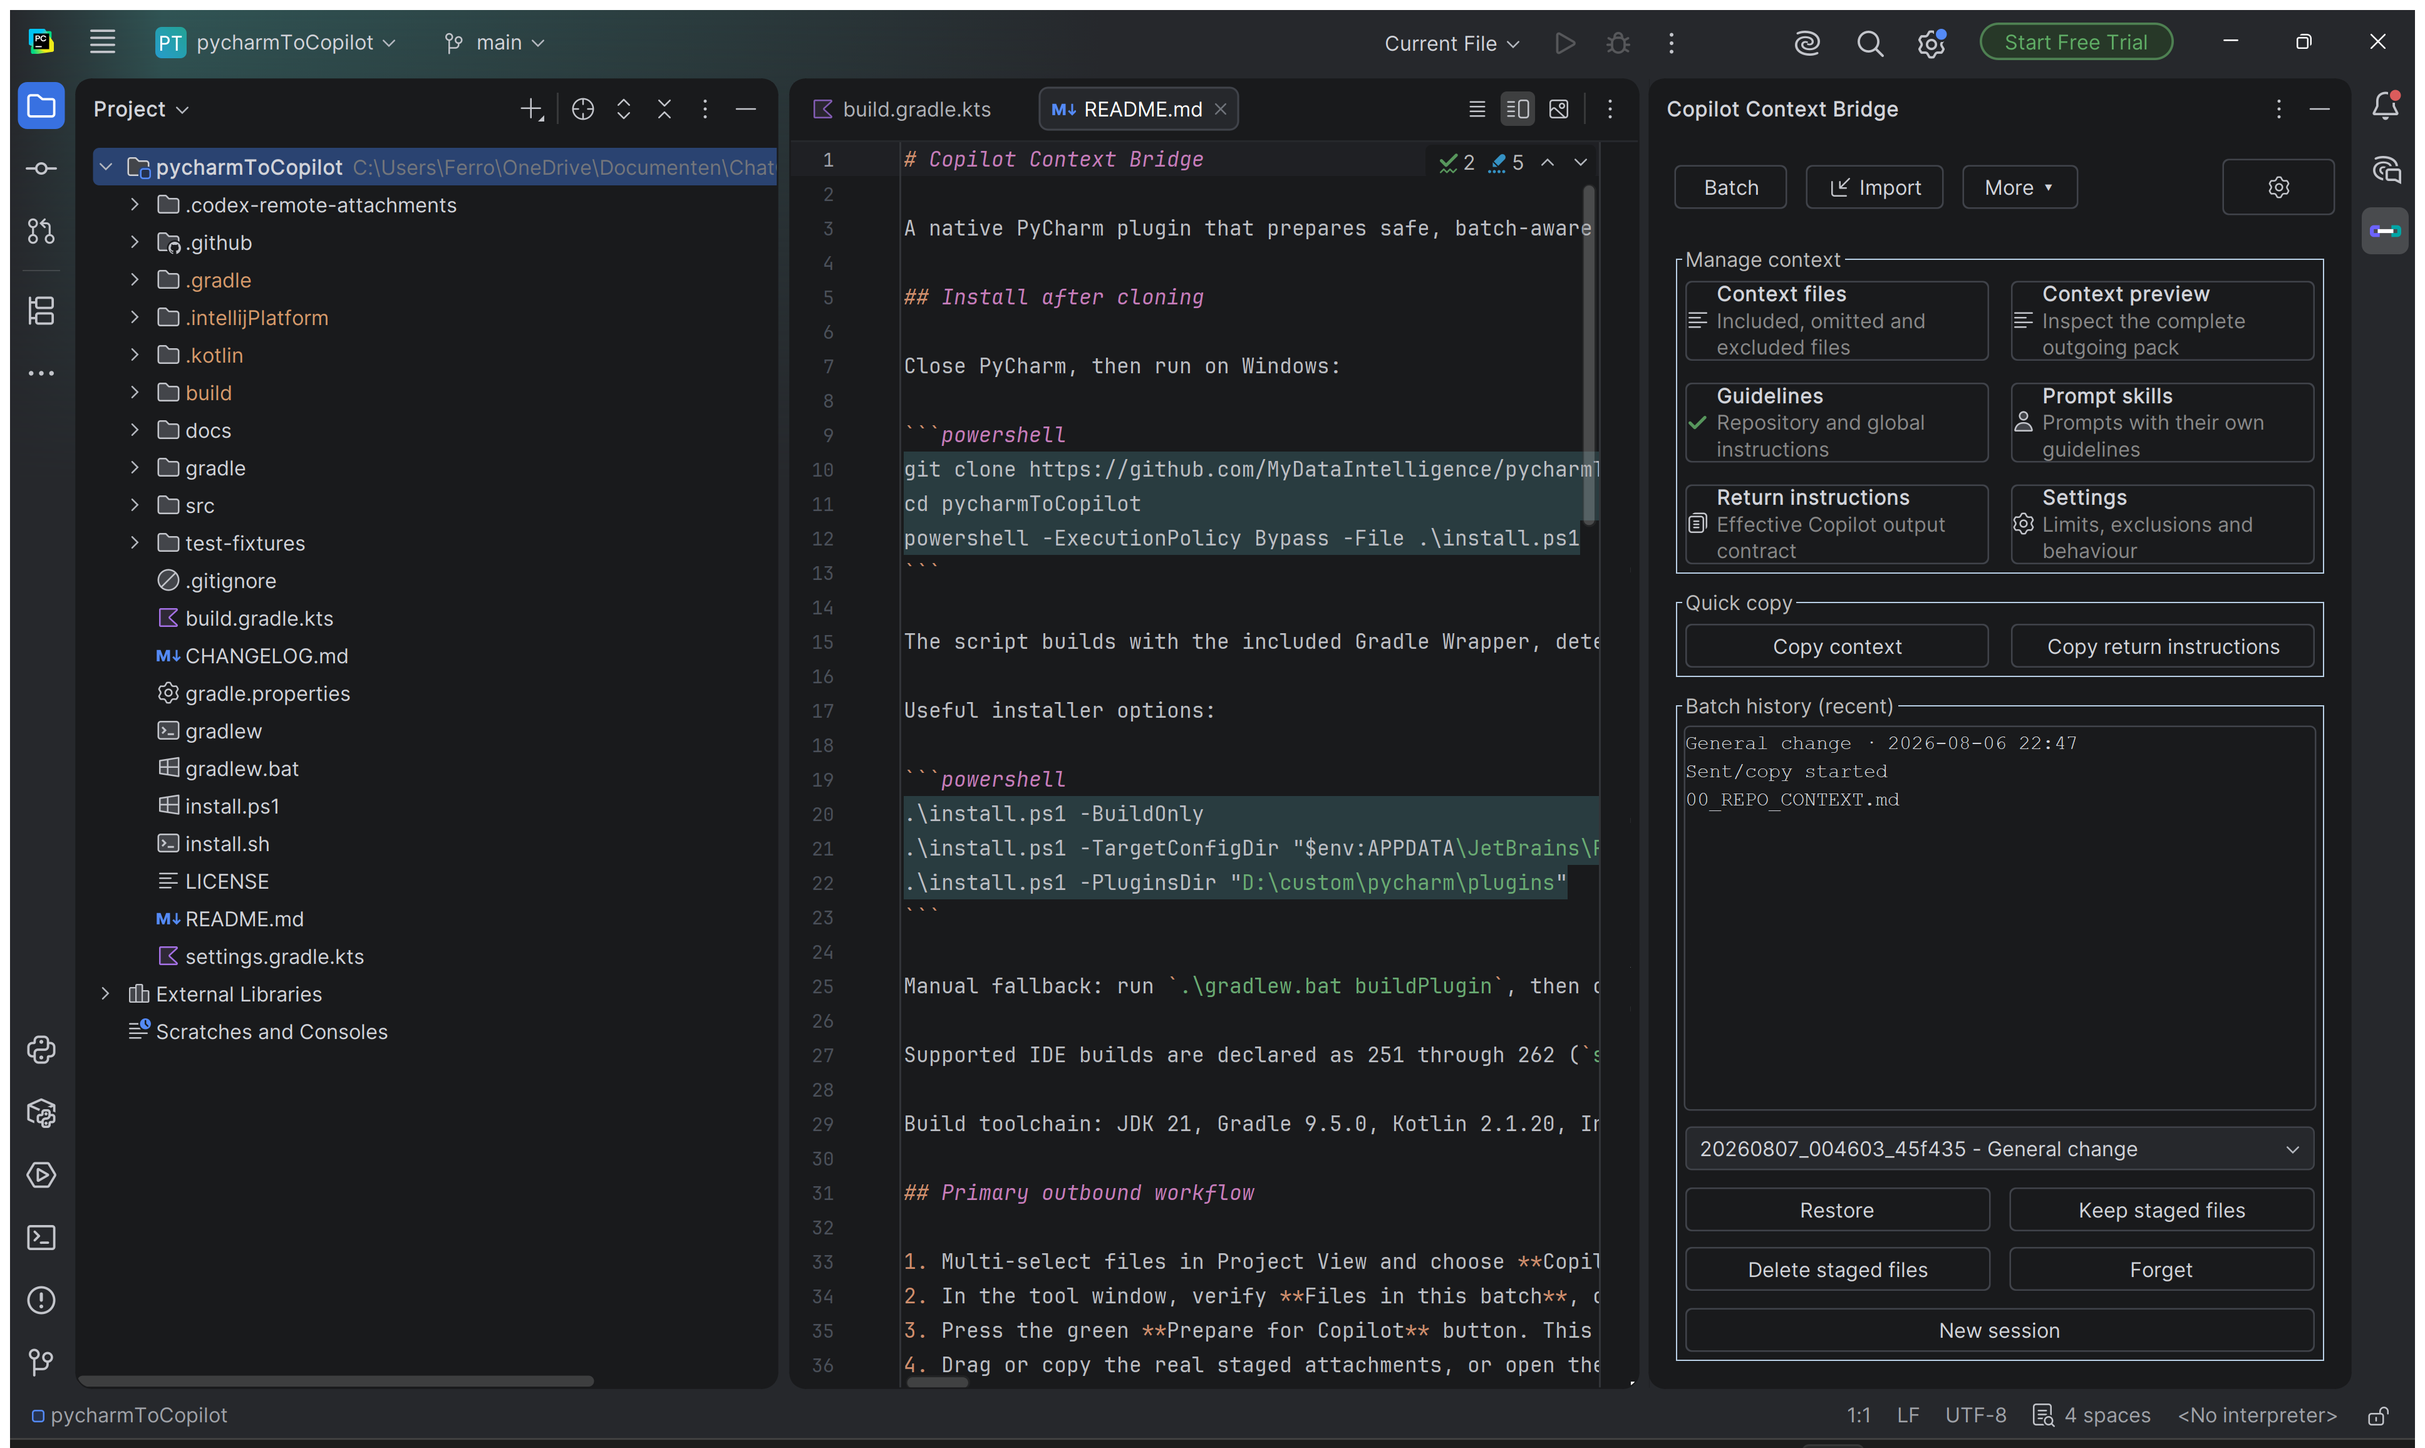
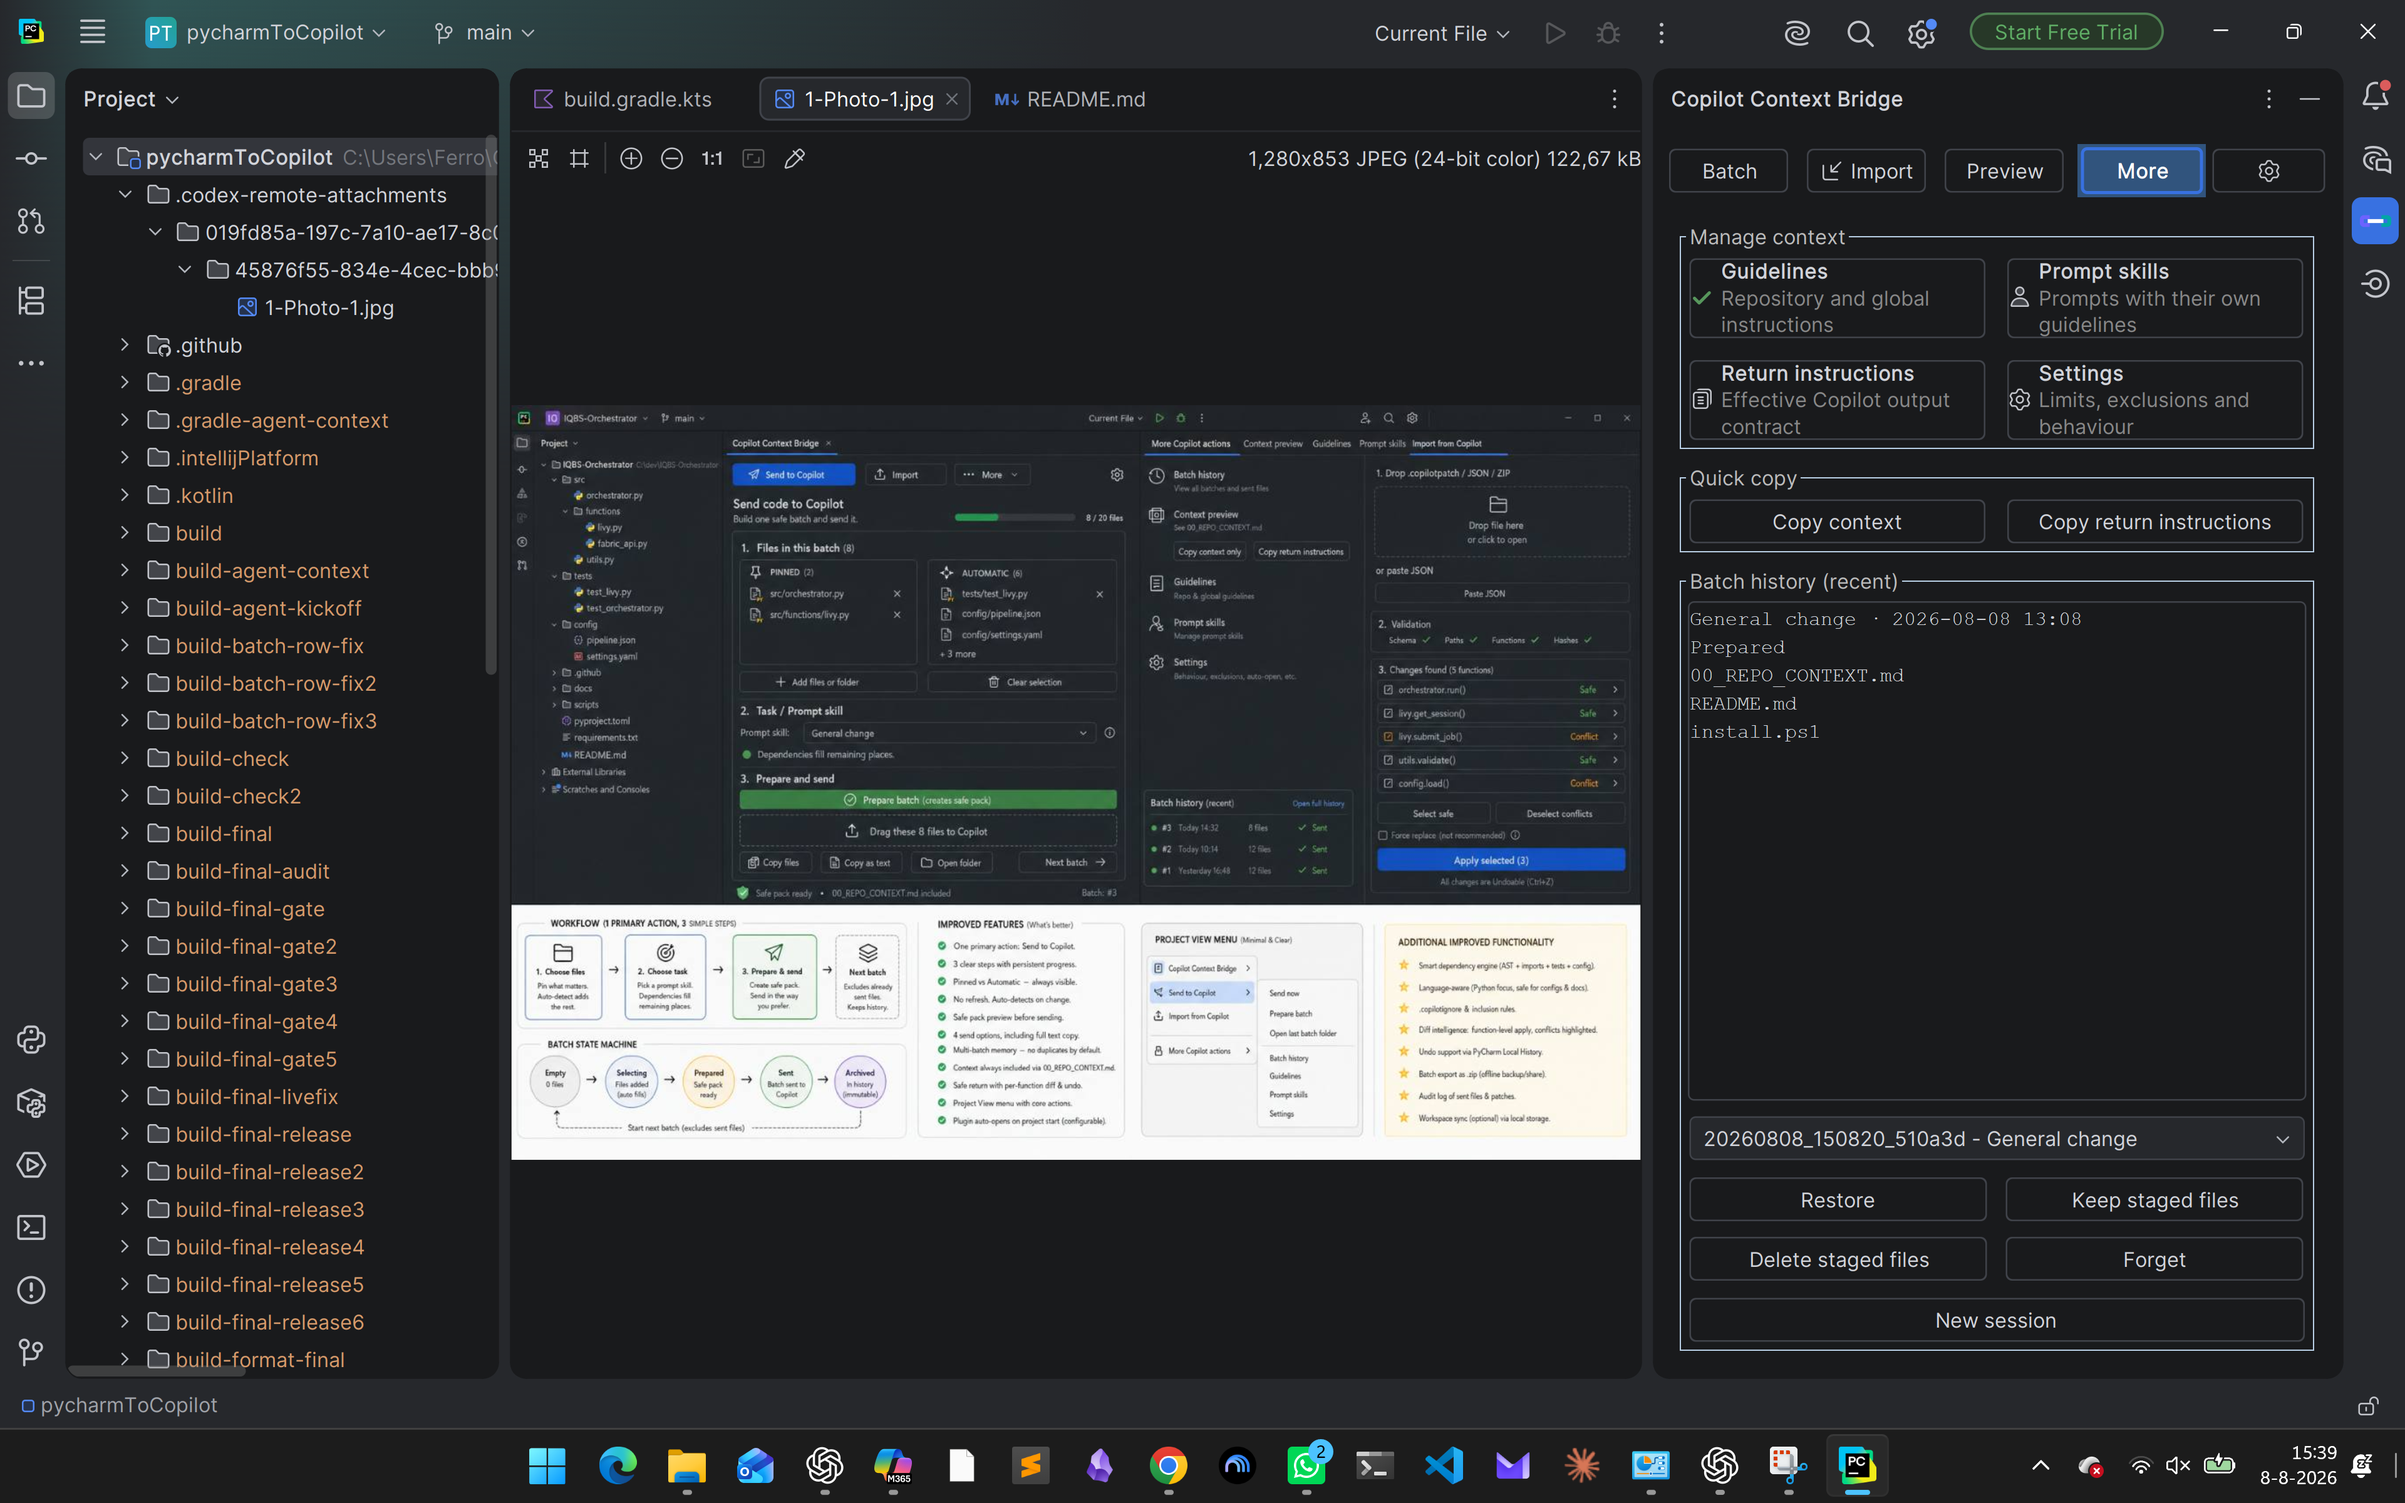
Finalize live UI evidence and settings labels

diff --git a/src/main/kotlin/nl/ferron/copilotcontextbridge/settings/AppSettingsConfigurable.kt b/src/main/kotlin/nl/ferron/copilotcontextbridge/settings/AppSettingsConfigurable.kt
@@ -26,7 +26,7 @@ class AppSettingsConfigurable : Configurable {
     private val excludedExtensions = JBTextArea(12, 70)
     private val retention = JSpinner(SpinnerNumberModel(7, 1, 365, 1))
 
-    override fun getDisplayName() = "Copilot Context Bridge"
+    override fun getDisplayName() = "Copilot Context Bridge (Application)"
 
     override fun createComponent(): JComponent =
         JBTabbedPane().apply {

diff --git a/src/main/kotlin/nl/ferron/copilotcontextbridge/settings/ProjectSettingsConfigurable.kt b/src/main/kotlin/nl/ferron/copilotcontextbridge/settings/ProjectSettingsConfigurable.kt
@@ -46,7 +46,7 @@ class ProjectSettingsConfigurable(
     private val scores = JBTextArea(16, 60)
     private val postApplyCommand = JBTextField()
 
-    override fun getDisplayName() = "Copilot Context Bridge"
+    override fun getDisplayName() = "Copilot Context Bridge (Project)"
 
     override fun createComponent(): JComponent =
         JBTabbedPane().apply {

diff --git a/docs/live-pycharm-test-matrix.md b/docs/live-pycharm-test-matrix.md
@@ -19,16 +19,16 @@ Rules:
 | L002 | Repeat `install.ps1` update | Previous plugin is backed up outside plugin directory; updated plugin loads once | PENDING | `docs/screenshots/live-audit/L002-repeat-install-update.png` |
 | L003 | Manual ZIP install fallback | Built ZIP is accepted by Install Plugin from Disk | PENDING | `docs/screenshots/live-audit/L003-manual-zip-install.png` |
 | L004 | Open fixture project | Tool window opens on compact three-step Batch page and fits at normal width | PASS | `docs/screenshots/live-audit/L174-reinstalled-final.png` |
-| L005 | Resize tool window narrow/wide | Primary controls remain readable; scrolling appears instead of clipping | PENDING | `docs/screenshots/live-audit/L005-responsive-layout.png` |
+| L005 | Resize tool window narrow/wide | Primary controls remain readable; scrolling appears instead of clipping | PASS | `docs/screenshots/live-audit/L005-responsive-layout.png` |
 | L006 | Switch Batch → Import → Preview → More | Navigation remains stable and no controls leak between pages | PASS | `docs/screenshots/live-audit/L175-import-final.png`, `L151-preview-tab.png`, `L152-more-tab.png`, `L174-reinstalled-final.png` |
-| L007 | Open every More destination repeatedly | More action/card positions do not jump from bottom to top or reorder | PENDING | `docs/screenshots/live-audit/L007-more-stable-button-order.png` |
+| L007 | Open every More destination repeatedly | More action/card positions do not jump from bottom to top or reorder | PASS | `docs/screenshots/live-audit/L007-more-stable-button-order.png` |
 | L008 | Reopen project | Configured auto-open behavior is respected without duplicate tool windows | PENDING | `docs/screenshots/live-audit/L008-project-reopen.png` |
 
 ## Project View selection
 
 | ID | Scenario | Expected result | Status | Full-window screenshot |
 |---|---|---|---|---|
-| L009 | Right-click one file | Bridge submenu shows Add, Add with Dependencies, Add with Prompt Skill and Open | PENDING | `docs/screenshots/live-audit/L009-project-menu-one-file.png` |
+| L009 | Right-click one file | Bridge submenu shows Add, Add with Dependencies, Add with Prompt Skill and Open | PASS | `docs/screenshots/live-audit/L009-project-menu-one-file.png` |
 | L010 | Ctrl multi-select two files | One Add action pins both selected paths | PENDING | `docs/screenshots/live-audit/L010-multiselect-two-files.png` |
 | L011 | Shift multi-select a range | Every selected file is pinned once in stable path order | PENDING | `docs/screenshots/live-audit/L011-multiselect-range.png` |
 | L012 | Add from different folders successively | Earlier and later pins remain together | PENDING | `docs/screenshots/live-audit/L012-cross-folder-selection.png` |
@@ -118,7 +118,7 @@ Rules:
 | L076 | Global guideline edit/reset/import/export | Each operation persists and round-trips | PENDING | `docs/screenshots/live-audit/L076-global-guidelines.png` |
 | L077 | Repository guideline explicit save | No repository write occurs before Save; requested file is written after Save | PENDING | `docs/screenshots/live-audit/L077-repository-guideline-save.png` |
 | L078 | Create modular guideline structure | Confirmation creates only selected safe structure | PENDING | `docs/screenshots/live-audit/L078-create-guideline-structure.png` |
-| L079 | Open Return Instructions editor | Mode default, project override, prompt addition and effective preview are distinct | PENDING | `docs/screenshots/live-audit/L079-return-instructions-editor.png` |
+| L079 | Open Return Instructions editor | Mode default, project override, prompt addition and effective preview are distinct | PASS | `docs/screenshots/live-audit/L079-return-instructions-editor.png` |
 | L080 | Edit project override/prompt addition | Effective instructions update and persist | PENDING | `docs/screenshots/live-audit/L080-return-instructions-inheritance.png` |
 | L081 | Remove required return clause | Validation warning identifies missing identity/safety requirement | PENDING | `docs/screenshots/live-audit/L081-return-instructions-validation.png` |
 | L082 | Reset Return Instructions | Selected mode returns to safe default while other modes remain intact | PENDING | `docs/screenshots/live-audit/L082-return-instructions-reset.png` |
@@ -128,16 +128,16 @@ Rules:
 
 | ID | Scenario | Expected result | Status | Full-window screenshot |
 |---|---|---|---|---|
-| L084 | Next batch | Prepared pack archives; active selection resets for next batch | PENDING | `docs/screenshots/live-audit/L084-next-batch.png` |
+| L084 | Next batch | Prepared pack archives; active selection resets for next batch | PASS | `docs/screenshots/live-audit/L084-next-batch.png` |
 | L085 | Restore historical batch | Historical repository paths become pinned again | PENDING | `docs/screenshots/live-audit/L085-restore-batch.png` |
 | L086 | Forget historical batch | Only selected history entry is removed after confirmation | PENDING | `docs/screenshots/live-audit/L086-forget-batch.png` |
 | L087 | New conversation session | Session ID changes; new batch starts at one; history remains inspectable | PASS | `docs/screenshots/live-audit/L168-new-session-confirmed.png`, `L169-session-selector.png` |
 | L088 | Current-session prior batches | Generated prompt lists current-session batches and possible future 20-file batches | PENDING | `docs/screenshots/live-audit/L088-multibatch-protocol.png` |
 | L089 | More → Batch history/session selector | Existing session with five batches can be selected and restored | PASS | `docs/screenshots/live-audit/L169-session-selector.png`, `L171-session-switched-old.png` |
-| L090 | More → Context preview and back | Preview opens, Back/Batch returns without layout jump | PENDING | `docs/screenshots/live-audit/L090-more-context-navigation.png` |
-| L091 | More → Guidelines and back | Correct page opens; Import controls never appear there | PENDING | `docs/screenshots/live-audit/L091-more-guidelines-navigation.png` |
-| L092 | More → Prompt Library and back | Editor opens with stable button placement and scroll state | PENDING | `docs/screenshots/live-audit/L092-more-prompt-navigation.png` |
-| L093 | More → Settings | Correct plugin settings page opens | PENDING | `docs/screenshots/live-audit/L093-more-settings.png` |
+| L090 | More → Context preview and back | Preview opens, Back/Batch returns without layout jump in the wide split layout | PASS | `docs/screenshots/live-audit/L141-context-preview-retained.png`, `L090-more-context-navigation.png` |
+| L091 | More → Guidelines and back | Correct page opens; Import controls never appear there | PASS | `docs/screenshots/live-audit/L091-more-guidelines-navigation.png` |
+| L092 | More → Prompt Library and back | Editor opens with stable button placement and scroll state | PASS | `docs/screenshots/live-audit/L092-more-prompt-navigation.png` |
+| L093 | More → Settings | Correct plugin settings page opens | PASS | `docs/screenshots/live-audit/L093-more-settings.png` |
 | L094 | More quick actions repeatedly | Quick copy/history controls keep fixed vertical order and alignment | PENDING | `docs/screenshots/live-audit/L094-more-quick-actions-stable.png` |
 
 ## Patch ingestion and validation
@@ -210,6 +210,6 @@ Rules:
 | L138 | Prepare dropdown batch | Packing summary reports physical attachments, represented files and category bundle counts | PASS | `docs/screenshots/live-audit/L148-after-prepare-correct-coordinates.png` |
 | L139 | Inspect prompt below prepared drag zone | Rendered prompt includes context index, skill, session, batch, original paths, Return Instructions and future-batch wait text | PASS | `docs/screenshots/live-audit/L148-after-prepare-correct-coordinates.png` |
 | L140 | Copy editable kickoff prompt | Clipboard exactly matches the visible rendered prompt and no file contents are mixed in | PASS | `docs/screenshots/live-audit/L179-copy-prompt-clicked.png` |
-| L141 | Open More → Context preview after Batch redesign | Complete generated context, source map and Included/Omitted/Excluded views remain available | PENDING | `docs/screenshots/live-audit/L141-context-preview-retained.png` |
-| L142 | Prepare a second batch in the same session | Prompt shows incremented batch number and warns that more batches may follow | PENDING | `docs/screenshots/live-audit/L142-second-batch-prompt.png` |
+| L141 | Open More → Context preview after Batch redesign | Complete generated context, source map and Included/Omitted/Excluded views remain available | PASS | `docs/screenshots/live-audit/L141-context-preview-retained.png` |
+| L142 | Prepare a second batch in the same session | Prompt shows incremented batch number and warns that more batches may follow | PASS | `docs/screenshots/live-audit/L142-second-batch-prompt.png` |
 | L143 | Review structured import and delete | Native diff, Apply confirmation and wrapped explicit delete warning appear before Apply | PASS | `docs/screenshots/live-audit/L154-structured-import-review.png`, `L155-native-diff.png`, `L156-import-confirmation.png`, `L160-delete-confirmation-2.png`, `L176-delete-warning-wrapped.png` |

diff --git a/docs/release-evidence-2026-08-08.md b/docs/release-evidence-2026-08-08.md
@@ -7,7 +7,7 @@ This record separates verified automated/install evidence from the still-pending
 - Gradle: 9.5.0.
 - Kotlin: 2.1.20.
 - Compilation target/toolchain: JDK 21 (`jvmToolchain(21)` and `JVM_21`).
-- Command: `.\gradlew.bat clean test ktlintCheck buildPlugin verifyPlugin -PccbBuildDir=build-final-release6 --no-daemon`.
+- Command: `.\gradlew.bat clean test ktlintCheck buildPlugin verifyPlugin -PccbBuildDir=build-final-release8 --no-daemon`.
 - Result: `BUILD SUCCESSFUL`; 51 suites and 191 tests, 0 failures, 0 errors and 0 skipped tests.
 - The same final-audit command rebuilt the ZIP and ran the verifier.
 - Plugin Verifier result: `Compatible` on PC-251.26927.90, PC-252.28539.58, PY-252.28539.58 and PY-262.8665.369. No incompatible API use was reported.
@@ -17,10 +17,10 @@ The Gradle launcher itself used the locally installed JDK 17. Gradle selected th
 ## ZIP and installer result
 
 - Repository ZIP: `build/distributions/copilot-context-bridge-1.0.0.zip`.
[1 lines of base64/hex data omitted]
-- Final verification ZIP: `build-final-release6/distributions/copilot-context-bridge-1.0.0.zip`.
-- Final verification size: 808536 bytes.
[2 lines of base64/hex data omitted]
+- Final verification ZIP: `build-final-release8/distributions/copilot-context-bridge-1.0.0.zip`.
+- Final verification size: 808622 bytes.
[1 lines of base64/hex data omitted]
 - Archive inspection found one `copilot-context-bridge/` plugin root with the plugin and searchable-options JARs.
 - `install.ps1` completed successfully, rebuilt the current source and copied the ZIP into the repository distribution folder.
 - The installer now runs `clean buildPlugin` in its isolated build directory before packaging, preventing stale Kotlin classes from leaking into a later install.
@@ -51,6 +51,8 @@ The final Batch-row smoke test also verified that `Copy files`, `Copy text`, `Op
 The corresponding `Copy files` assertion exposed a real `javaFileListFlavor` list containing the staged `00_REPO_CONTEXT.md`, `README.md`, `src/main/kotlin/nl/ferron/copilotcontextbridge/settings/AppSettings.kt` and generated automatic attachment, rather than a text-only paste.
 
 The current live session selector was also exercised after reinstall (`10b01161 · 6 batches`); the historical-session screenshots above show switching back to a previous session without losing its batch history.
+
+Additional live rows completed in this audit are recorded in `live-pycharm-test-matrix.md`: narrow-window responsive layout, repeated More navigation, Project View submenu actions, Return Instructions, Next batch reset, Guidelines, Prompt Library, Settings, retained Context Preview, Preview-to-Batch navigation in the wide split layout and a second-batch kickoff prompt. The settings screenshot specifically verifies the previously ambiguous entries now render as `Copilot Context Bridge (Application)` and `Copilot Context Bridge (Project)`.
 
 ## Visual acceptance status
 
